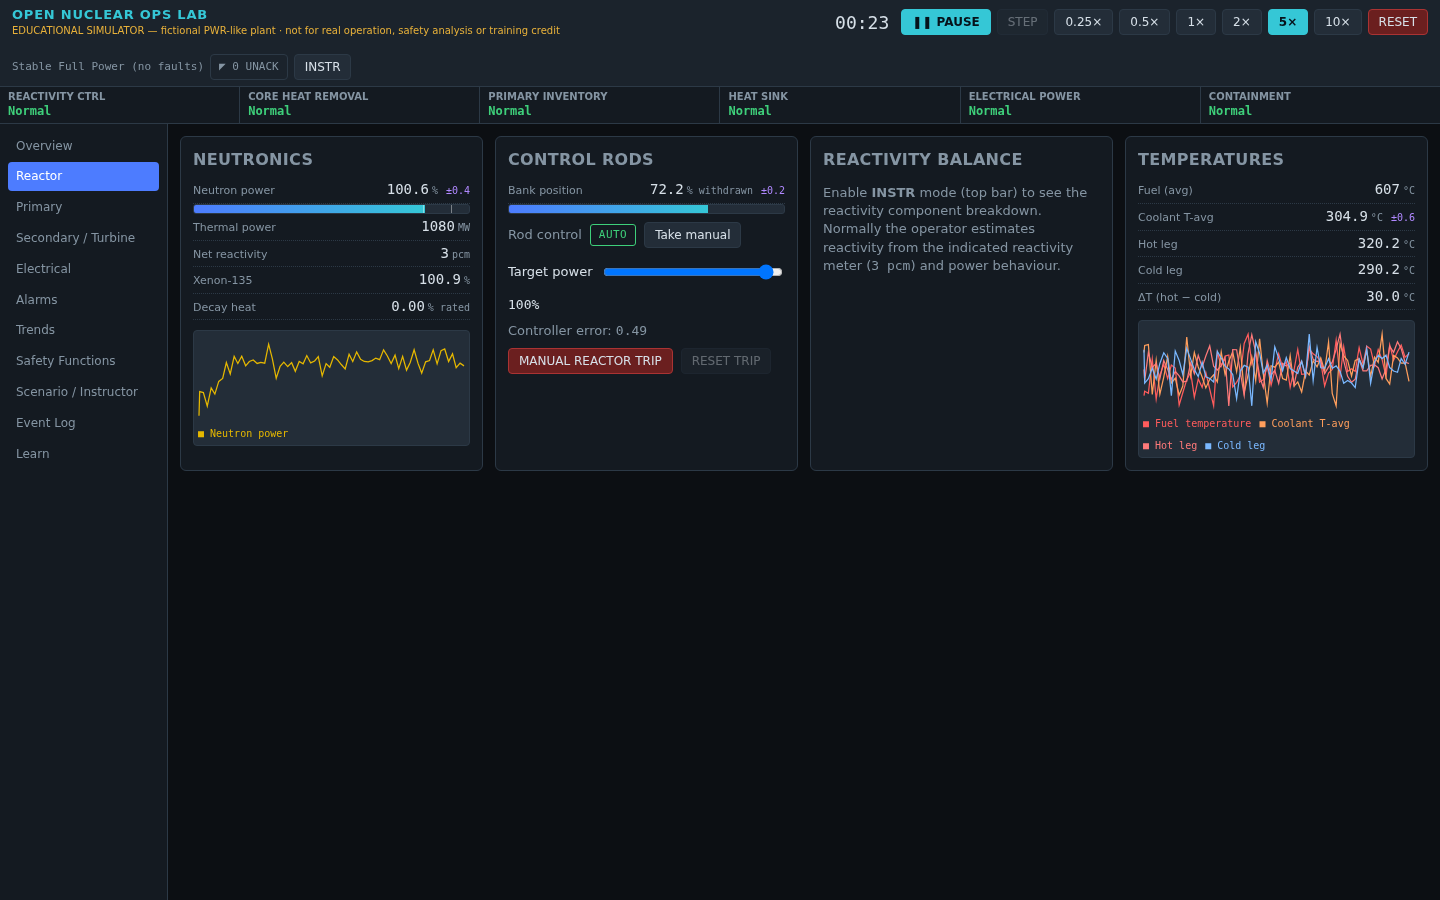
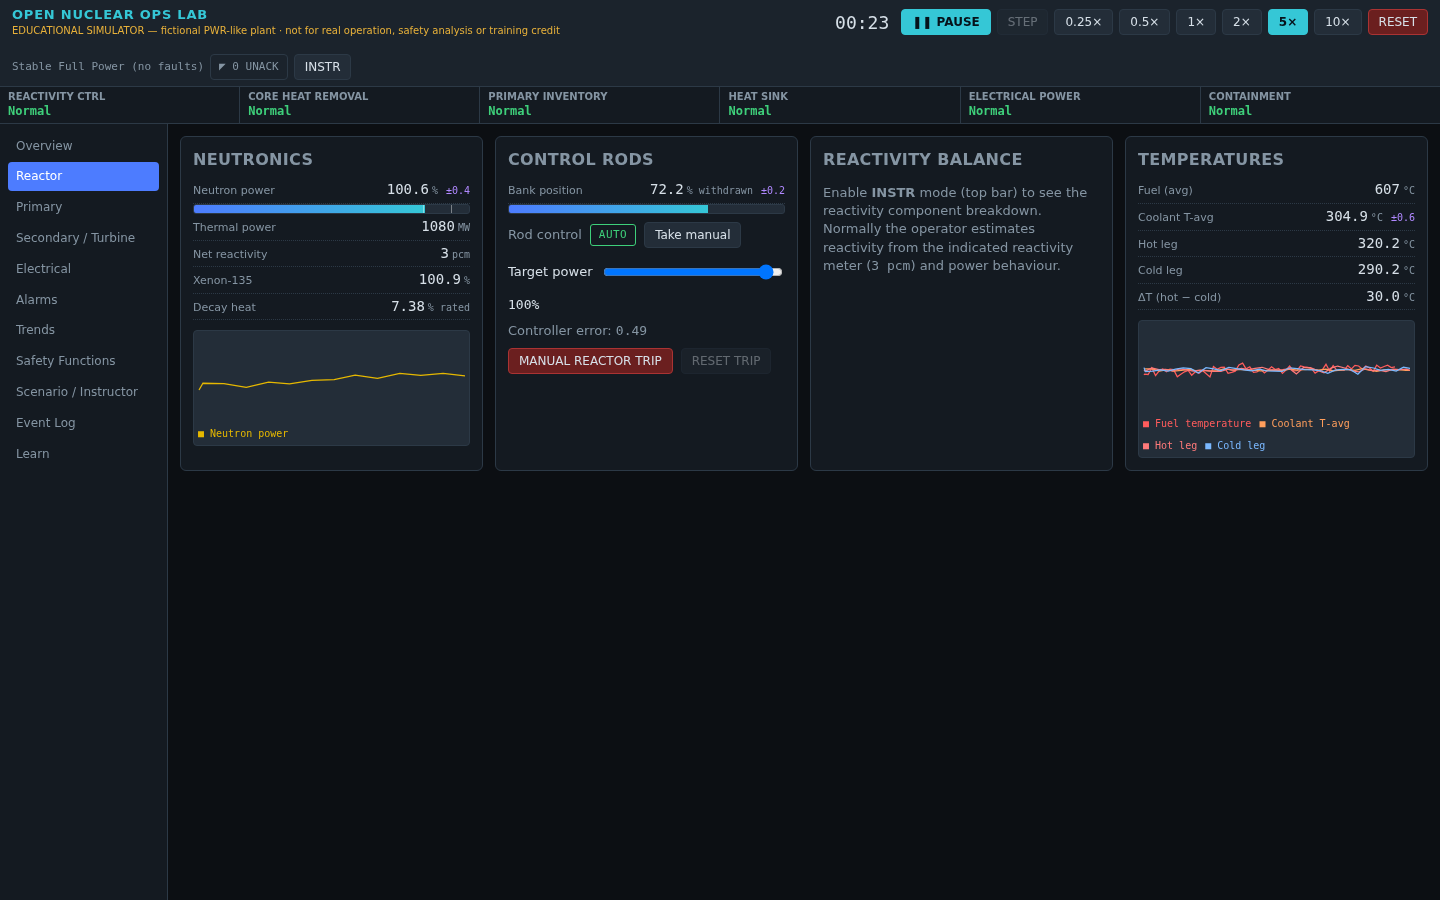
CI: run e2e against a root-base-href build; UI polish
- Playwright build no longer uses the Pages base-href (the deploy job does
  its own); fixes e2e 404s in CI
- reactor view derives decay-heat % from HMI values (no instructor mode
  needed)
- mini-trend keeps a minimum vertical span so sensor noise is not amplified

Claude-Session: https://claude.ai/code/session_01AkXqQwR4pHKe1M8n9uSbGf

Changed region(s): [[0.7812, 0.3733, 1.0, 0.4667], [0.125, 0.3733, 0.3125, 0.4356]]

diff --git a/app/src/app/ui/mini-trend.component.ts b/app/src/app/ui/mini-trend.component.ts
@@ -106,9 +106,13 @@ export class MiniTrendComponent implements AfterViewInit {
         }
       }
       if (!Number.isFinite(lo)) continue;
-      const pad = (hi - lo) * 0.1 || 1;
-      lo -= pad;
-      hi += pad;
+      // Keep a sensible minimum span so measurement noise on a near-constant
+      // signal is not amplified into a jagged full-height trace.
+      const mag = Math.max(Math.abs(hi), Math.abs(lo), 1);
+      const span = Math.max(hi - lo, mag * 0.04);
+      const mid = (hi + lo) / 2;
+      lo = mid - span / 2 - span * 0.15;
+      hi = mid + span / 2 + span * 0.15;
       ctx.beginPath();
       ctx.strokeStyle = this.color(k);
       ctx.lineWidth = 1.25;

diff --git a/app/src/app/views/reactor.component.ts b/app/src/app/views/reactor.component.ts
@@ -134,7 +134,9 @@ export class ReactorComponent extends ViewBase {
 
   readonly ctl = computed(() => this.snap()!.controllers);
   readonly tripped = computed(() => this.snap()?.controllers.reactor_trip_latched ?? false);
-  readonly decayPct = computed(() => (this.phys()?.decay_heat ?? 0) * 100);
+  // Derived from HMI values so it is available without instructor mode:
+  // thermal% = (fission + decay)·100 ; subtract indicated fission power.
+  readonly decayPct = computed(() => Math.max(0, this.h('thermal_power') / 10 - this.h('neutron_power')));
 
   pcm(v: number): string {
     return (v * 1e5).toFixed(0);
